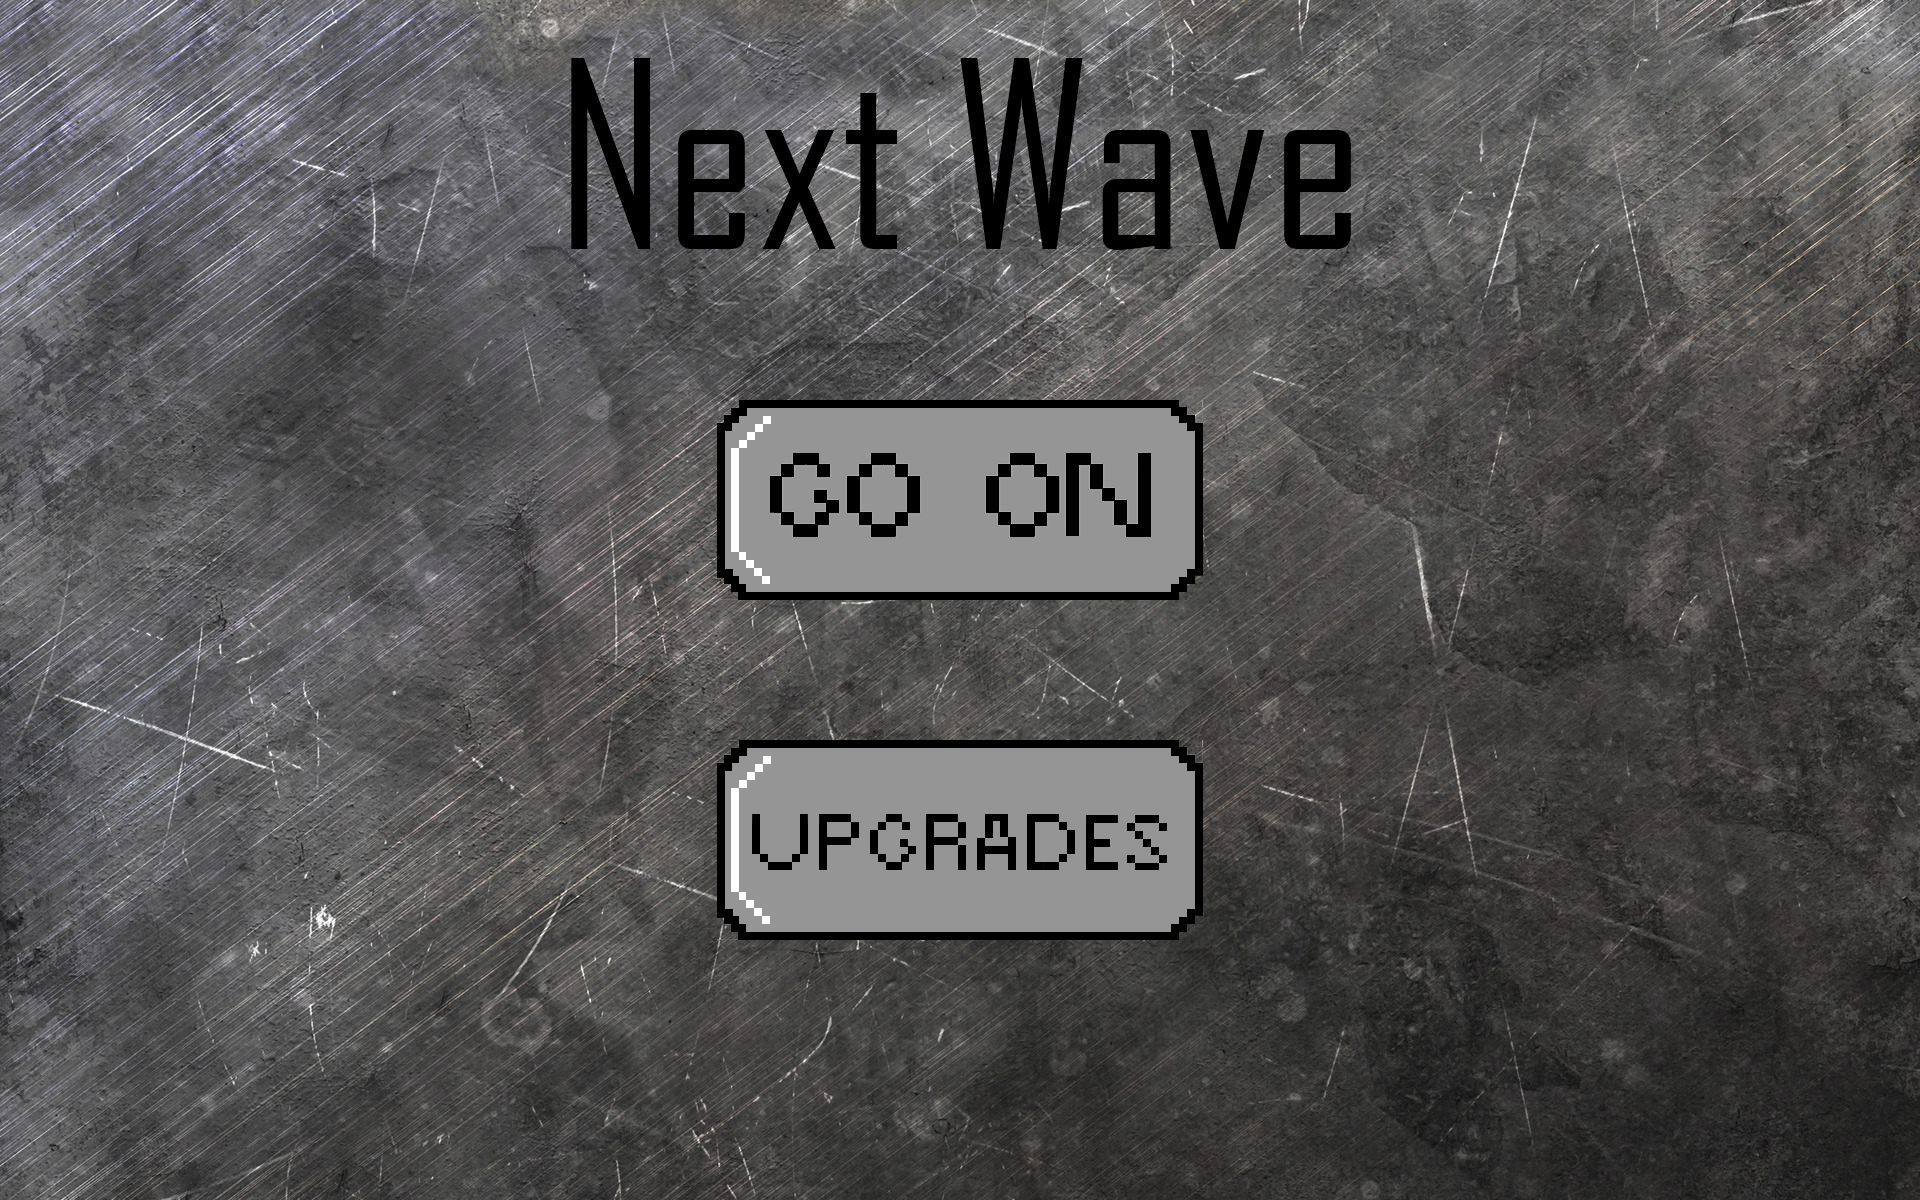
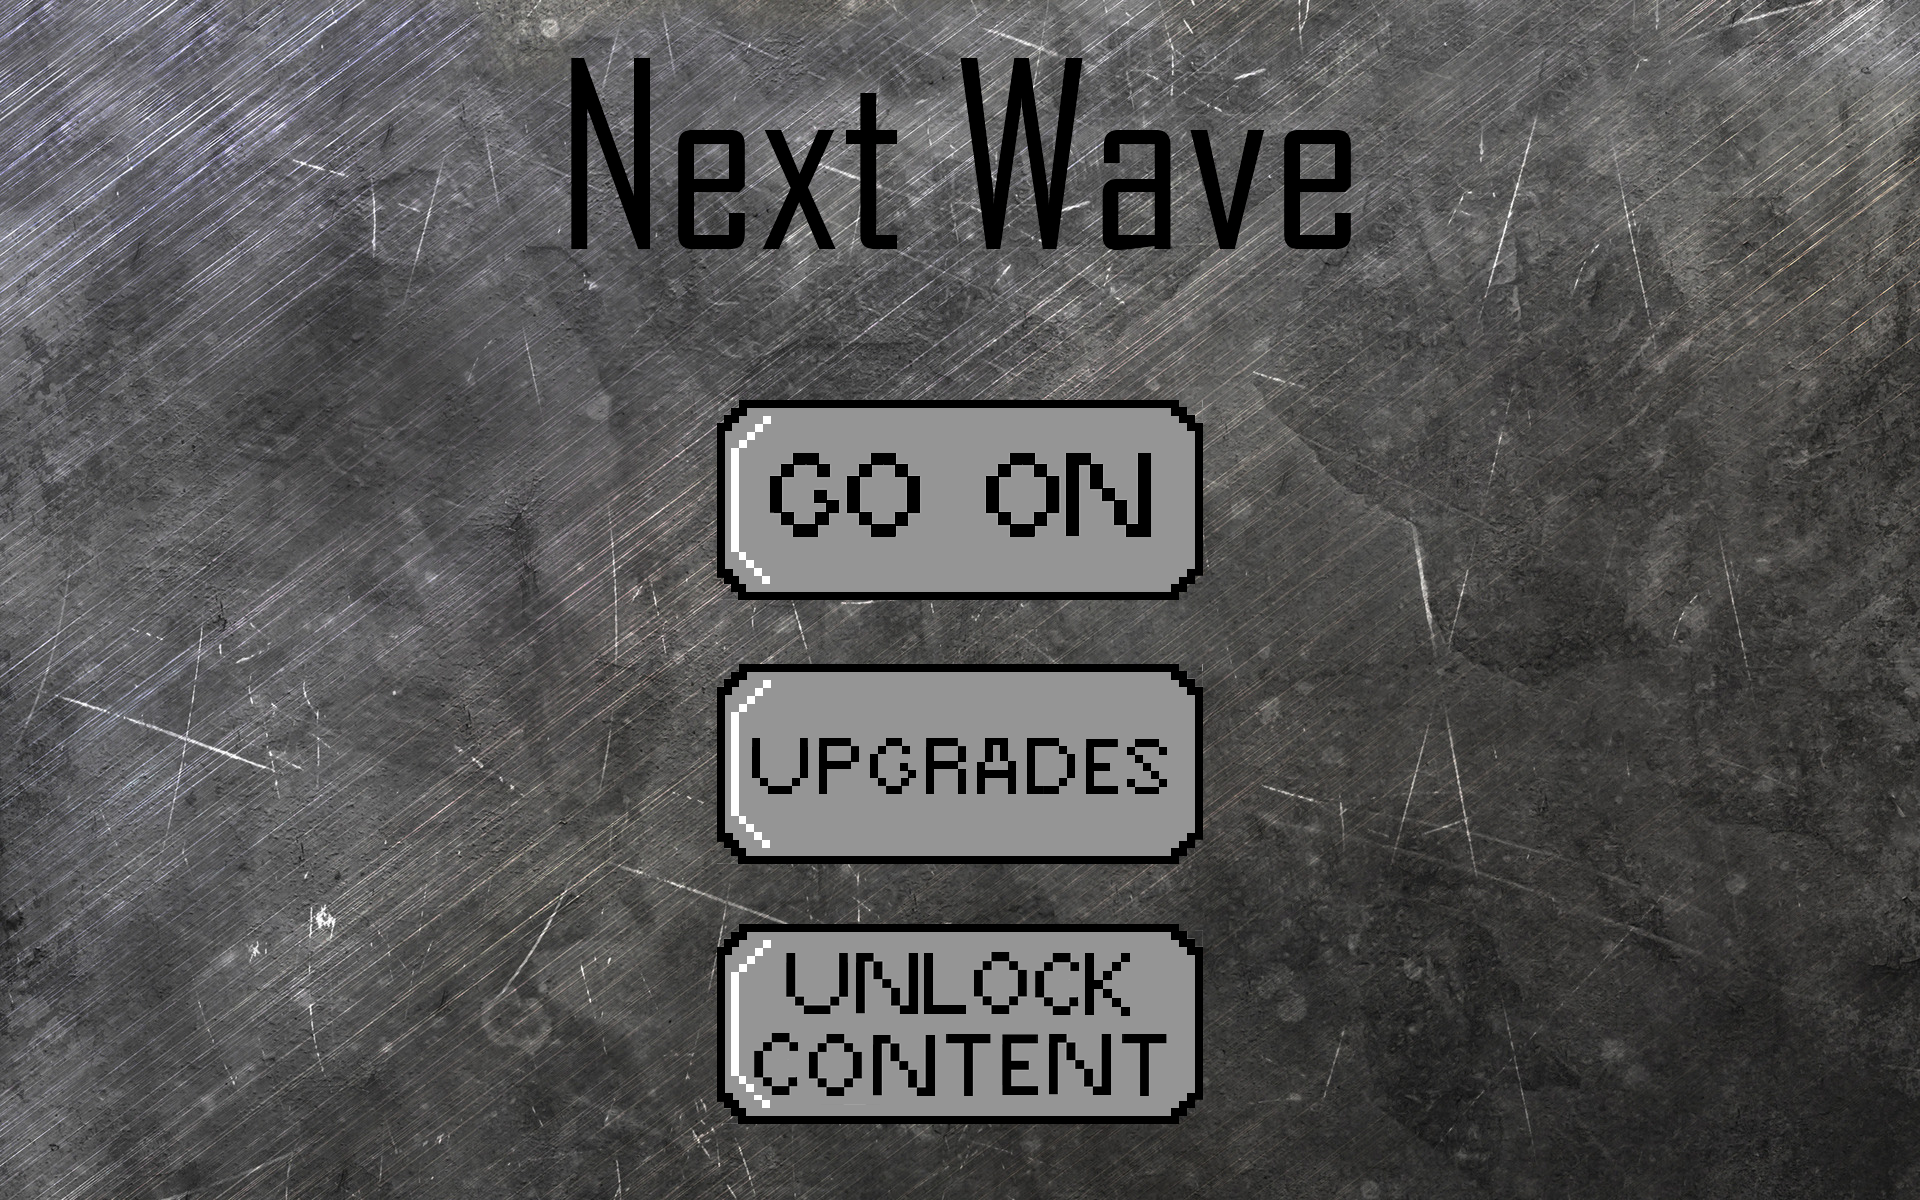
Updated Volume for Music and added a button to get to unlockables screen from next wave

Changed region(s): [[0.375, 0.555, 0.625, 0.9558]]

diff --git a/Purpose/Game1.cs b/Purpose/Game1.cs
@@ -101,6 +101,7 @@ namespace Purpose
         private GameObject unlockablesReturnToPauseButton;
         private GameObject startUnlockablesButton;
         private GameObject pauseUnlockablesButton;
+        private GameObject nextWaveUnlockablesButton;
 
         private GameObject groundPoundTip;
         private GameObject damageUpTip;
@@ -298,7 +299,8 @@ namespace Purpose
             exitGameButton = new GameObject(textureManager.ButtonFrame, new Rectangle(500, 457, 349, 160));
             pauseUnlockablesButton = new GameObject(textureManager.ButtonFrame, new Rectangle(500, 643, 349, 155));
             goOnButton = new GameObject(textureManager.ButtonFrame, new Rectangle(500, 272, 349, 160));
-            upgradesButton = new GameObject(textureManager.ButtonFrame, new Rectangle(500, 512, 349, 160));
+            upgradesButton = new GameObject(textureManager.ButtonFrame, new Rectangle(500, 457, 349, 160));
+            nextWaveUnlockablesButton = new GameObject(textureManager.ButtonFrame, new Rectangle(500, 643, 349, 155));
             returnToMenuButton = new GameObject(textureManager.ButtonFrame, new Rectangle(500, 343, 349, 160));
             returnToMainButton = new GameObject(textureManager.ButtonFrame, new Rectangle(35, 35, 243, 108));
             unlockablesReturnToPauseButton = new GameObject(textureManager.ButtonFrame, new Rectangle(35, 34, 242, 109));
@@ -352,7 +354,7 @@ namespace Purpose
 
             MediaPlayer.Play(soundManager.Song);
             MediaPlayer.IsRepeating = true;
-            MediaPlayer.Volume = 25;
+            MediaPlayer.Volume = 0.2f;
 
             savedUnlockables = new UnlockablesReadWrite();
             List<bool[]> unlockedEquipped = savedUnlockables.Load();
@@ -981,6 +983,15 @@ namespace Purpose
                     {
                         spriteBatch.Draw(upgradesButton.Texture, upgradesButton.Position, Color.White);
                     }
+
+                    if (nextWaveUnlockablesButton.Intersects(ms.Position))
+                    {
+                        spriteBatch.Draw(nextWaveUnlockablesButton.Texture, nextWaveUnlockablesButton.Position, Color.Black);
+                    }
+                    else
+                    {
+                        spriteBatch.Draw(nextWaveUnlockablesButton.Texture, nextWaveUnlockablesButton.Position, Color.White);
+                    }
                     break;
                 #endregion
 
@@ -1051,6 +1062,9 @@ namespace Purpose
                     {
                         gameManager.ResetOnPlayerDeathPreset(camera, rng, worldLeftEndWidth, worldRightEndWidth, gameTime, platformManager);
                     }
+
+                    unlockables.UnlockableUpdate(gameManager.EnemyManager);
+
                     break;
                 #endregion
 
@@ -1348,16 +1362,8 @@ namespace Purpose
 
                     if (unlockablesReturnToPauseButton.Intersects(ms.Position) && ms.LeftButton == ButtonState.Pressed && previousMs.LeftButton == ButtonState.Released)
                     {
-                        if (gameManager.PrevGameState == GameState.Menu)
-                        {
-                            gameManager.GameState = GameState.Menu;
-                            savedUnlockables.Save(unlockables.UnlockPoints, unlockables.ItemsList);
-                        }
-                        else if (gameManager.PrevGameState == GameState.Pause)
-                        {
-                            gameManager.GameState = GameState.Pause;
-                            savedUnlockables.Save(unlockables.UnlockPoints, unlockables.ItemsList);
-                        }
+                        gameManager.GameState = gameManager.PrevGameState;
+                        savedUnlockables.Save(unlockables.UnlockPoints, unlockables.ItemsList);
                     }
 
                     //Deals with the Fez hat
@@ -1482,34 +1488,7 @@ namespace Purpose
                         unlockables.MakeDefault();
                     }
 
-                    //Loops through all the unlockables and checks which is equipped
-                    for (int i = 0; i < unlockables.ItemsList.Count; i++)
-                    {
-                        if (unlockables.ItemsList[i].Equipped == true)
-                        {
-                            //Sets the new equipped texture as the current texture
-                            gameManager.EnemyManager.RangedTexture = unlockables.ItemsList[i].RangeTexture;
-                            gameManager.EnemyManager.RightEnemyWalk1 = unlockables.ItemsList[i].RightEnemyWalk1;
-                            gameManager.EnemyManager.RightEnemyWalk2 = unlockables.ItemsList[i].RightEnemyWalk2;
-                            gameManager.EnemyManager.RightEnemyWalk3 = unlockables.ItemsList[i].RightEnemyWalk3;
-                            gameManager.EnemyManager.LeftEnemyWalk1 = unlockables.ItemsList[i].LeftEnemyWalk1;
-                            gameManager.EnemyManager.LeftEnemyWalk2 = unlockables.ItemsList[i].LeftEnemyWalk2;
-                            gameManager.EnemyManager.LeftEnemyWalk3 = unlockables.ItemsList[i].LeftEnemyWalk3;
-                            break;
-                        }
-                        else
-                        {
-                            //If there are no equipped textures from the unlockables
-                            //Set the texture as the default
-                            gameManager.EnemyManager.RangedTexture = textureManager.RangedEnemyTexture;
-                            gameManager.EnemyManager.RightEnemyWalk1 = textureManager.RightEnemyWalk1;
-                            gameManager.EnemyManager.RightEnemyWalk2 = textureManager.RightEnemyWalk2;
-                            gameManager.EnemyManager.RightEnemyWalk3 = textureManager.RightEnemyWalk3;
-                            gameManager.EnemyManager.LeftEnemyWalk1 = textureManager.LeftEnemyWalk1;
-                            gameManager.EnemyManager.LeftEnemyWalk2 = textureManager.LeftEnemyWalk2;
-                            gameManager.EnemyManager.LeftEnemyWalk3 = textureManager.LeftEnemyWalk1;
-                        }
-                    }
+                    unlockables.UnlockableUpdate(gameManager.EnemyManager);
                     break;
                 #endregion
 
@@ -1533,14 +1512,22 @@ namespace Purpose
                     if (goOnButton.Intersects(ms.Position) && ms.LeftButton == ButtonState.Pressed && previousMs.LeftButton == ButtonState.Released && editedGame)
                     {
                         gameManager.GameState = GameState.EditorGame;
+                        MediaPlayer.Stop();
+                        MediaPlayer.Play(soundManager.Song);
                     }
                     else if (goOnButton.Intersects(ms.Position) && ms.LeftButton == ButtonState.Pressed && previousMs.LeftButton == ButtonState.Released && !editedGame)
                     {
                         gameManager.GameState = GameState.PresetGame;
+                        MediaPlayer.Stop();
+                        MediaPlayer.Play(soundManager.Song);
                     }
                     else if (upgradesButton.Intersects(ms.Position) && ms.LeftButton == ButtonState.Pressed && previousMs.LeftButton == ButtonState.Released)
                     {
                         gameManager.GameState = GameState.UpgradeMenu;
+                    }
+                    else if (nextWaveUnlockablesButton.Intersects(ms.Position) && ms.LeftButton == ButtonState.Pressed && previousMs.LeftButton == ButtonState.Released)
+                    {
+                        gameManager.GameState = GameState.UnlockablesMenu;
                     }
                     break;
                 #endregion

diff --git a/Purpose/Unlockables.cs b/Purpose/Unlockables.cs
@@ -285,5 +285,37 @@ namespace Purpose
                 return 0;
             }
         }
+
+        public void UnlockableUpdate(EnemyManager enemyManager)
+        {
+            //Loops through all the unlockables and checks which is equipped
+            for (int i = 0; i < itemsList.Count; i++)
+            {
+                if (itemsList[i].Equipped == true)
+                {
+                    //Sets the new equipped texture as the current texture
+                    enemyManager.RangedTexture = itemsList[i].RangeTexture;
+                    enemyManager.RightEnemyWalk1 = itemsList[i].RightEnemyWalk1;
+                    enemyManager.RightEnemyWalk2 = itemsList[i].RightEnemyWalk2;
+                    enemyManager.RightEnemyWalk3 = itemsList[i].RightEnemyWalk3;
+                    enemyManager.LeftEnemyWalk1 = itemsList[i].LeftEnemyWalk1;
+                    enemyManager.LeftEnemyWalk2 = itemsList[i].LeftEnemyWalk2;
+                    enemyManager.LeftEnemyWalk3 = itemsList[i].LeftEnemyWalk3;
+                    break;
+                }
+                else
+                {
+                    //If there are no equipped textures from the unlockables
+                    //Set the texture as the default
+                    enemyManager.RangedTexture = textureManager.RangedEnemyTexture;
+                    enemyManager.RightEnemyWalk1 = textureManager.RightEnemyWalk1;
+                    enemyManager.RightEnemyWalk2 = textureManager.RightEnemyWalk2;
+                    enemyManager.RightEnemyWalk3 = textureManager.RightEnemyWalk3;
+                    enemyManager.LeftEnemyWalk1 = textureManager.LeftEnemyWalk1;
+                    enemyManager.LeftEnemyWalk2 = textureManager.LeftEnemyWalk2;
+                    enemyManager.LeftEnemyWalk3 = textureManager.LeftEnemyWalk1;
+                }
+            }
+        }
     }
 }
